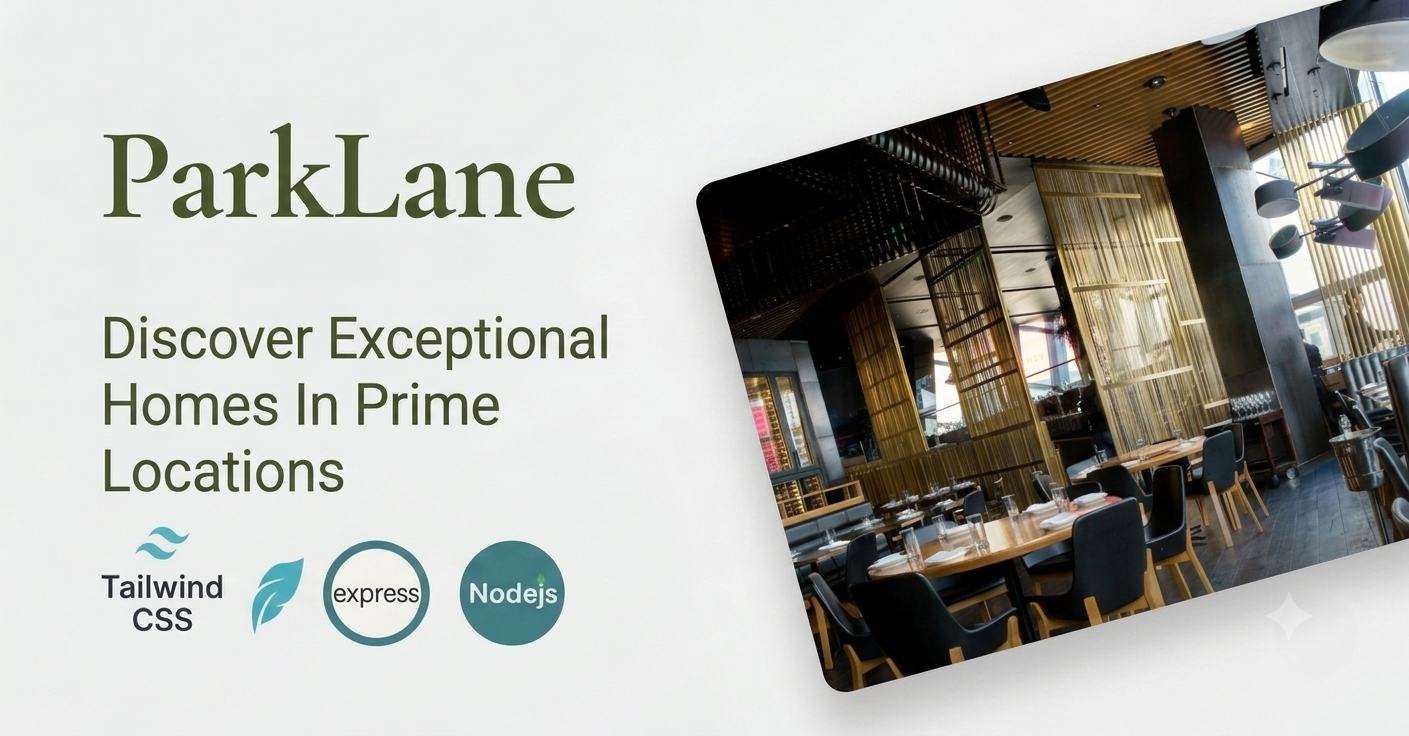
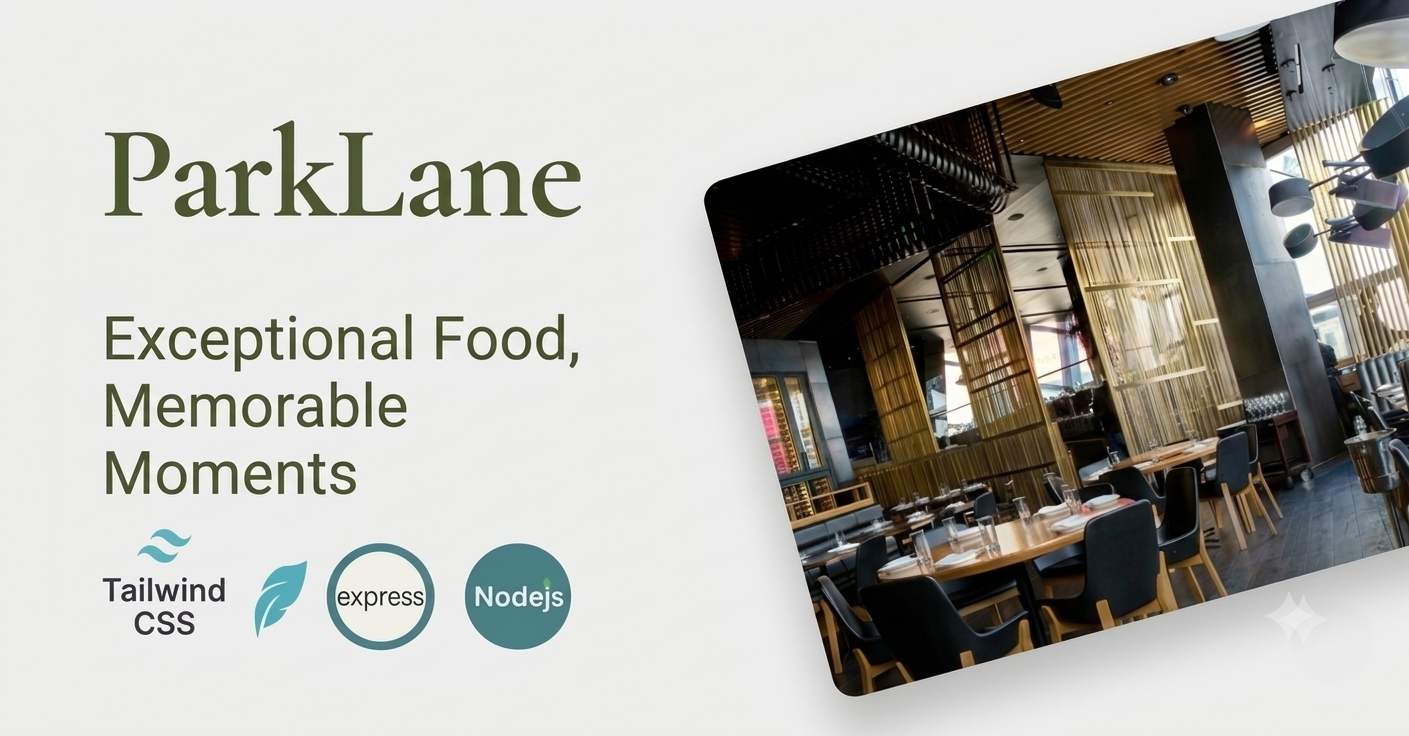
feat(ui):parklane project image change and add restaurant project in portfolio

diff --git a/src/pages/PortfolioPage.jsx b/src/pages/PortfolioPage.jsx
@@ -61,6 +61,8 @@ import veloraEstate from '../assets/portfolios/velora-estate.png'
 import greenFieldImage from '../assets/portfolios/green-field.png'
 import haveliImage from "../assets/portfolios/haveli.png"
 import parkLaneImage from "../assets/portfolios/parklane.png"
+import restaurantImage from "../assets/portfolios/restaurant.png"
+
 
 const portfolioItems = [
   {
@@ -518,12 +520,19 @@ description:
         name: "ParkLane",
         url: "https://park-lane-nu.vercel.app",
         image: parkLaneImage,
-        tags: ["Residential", "Commercial", "Investment"],
+        tags: ["Gourmet Dining", "Signature Dishes", "Fine Ambiance"],
         description:
-          "ParkLane is a premium residential and commercial real estate development company that specializes in creating luxurious and sustainable living spaces in sought-after locations across the country.",
+          "Savor an unforgettable dining experience with expertly prepared dishes, premium ingredients, and inviting ambiance. Our restaurant brings together rich flavors, creative cuisine, and attentive service to make every visit truly special.",
+        },
+      {
+        name: "Restaurant",
+        url: "https://park-lane-nu.vercel.app",
+        image: restaurantImage,
+        tags: ["Fine Dining", "Multi-Cuisine", "Private Dining"],
+        description:
+          "ParkLane is a premium restaurant offering an elegant dining experience with delicious cuisine, handcrafted dishes, and warm hospitality. From intimate dinners to special celebrations, we create memorable moments in a refined and welcoming atmosphere.",
+
       },
-
-
 ];
 
 
